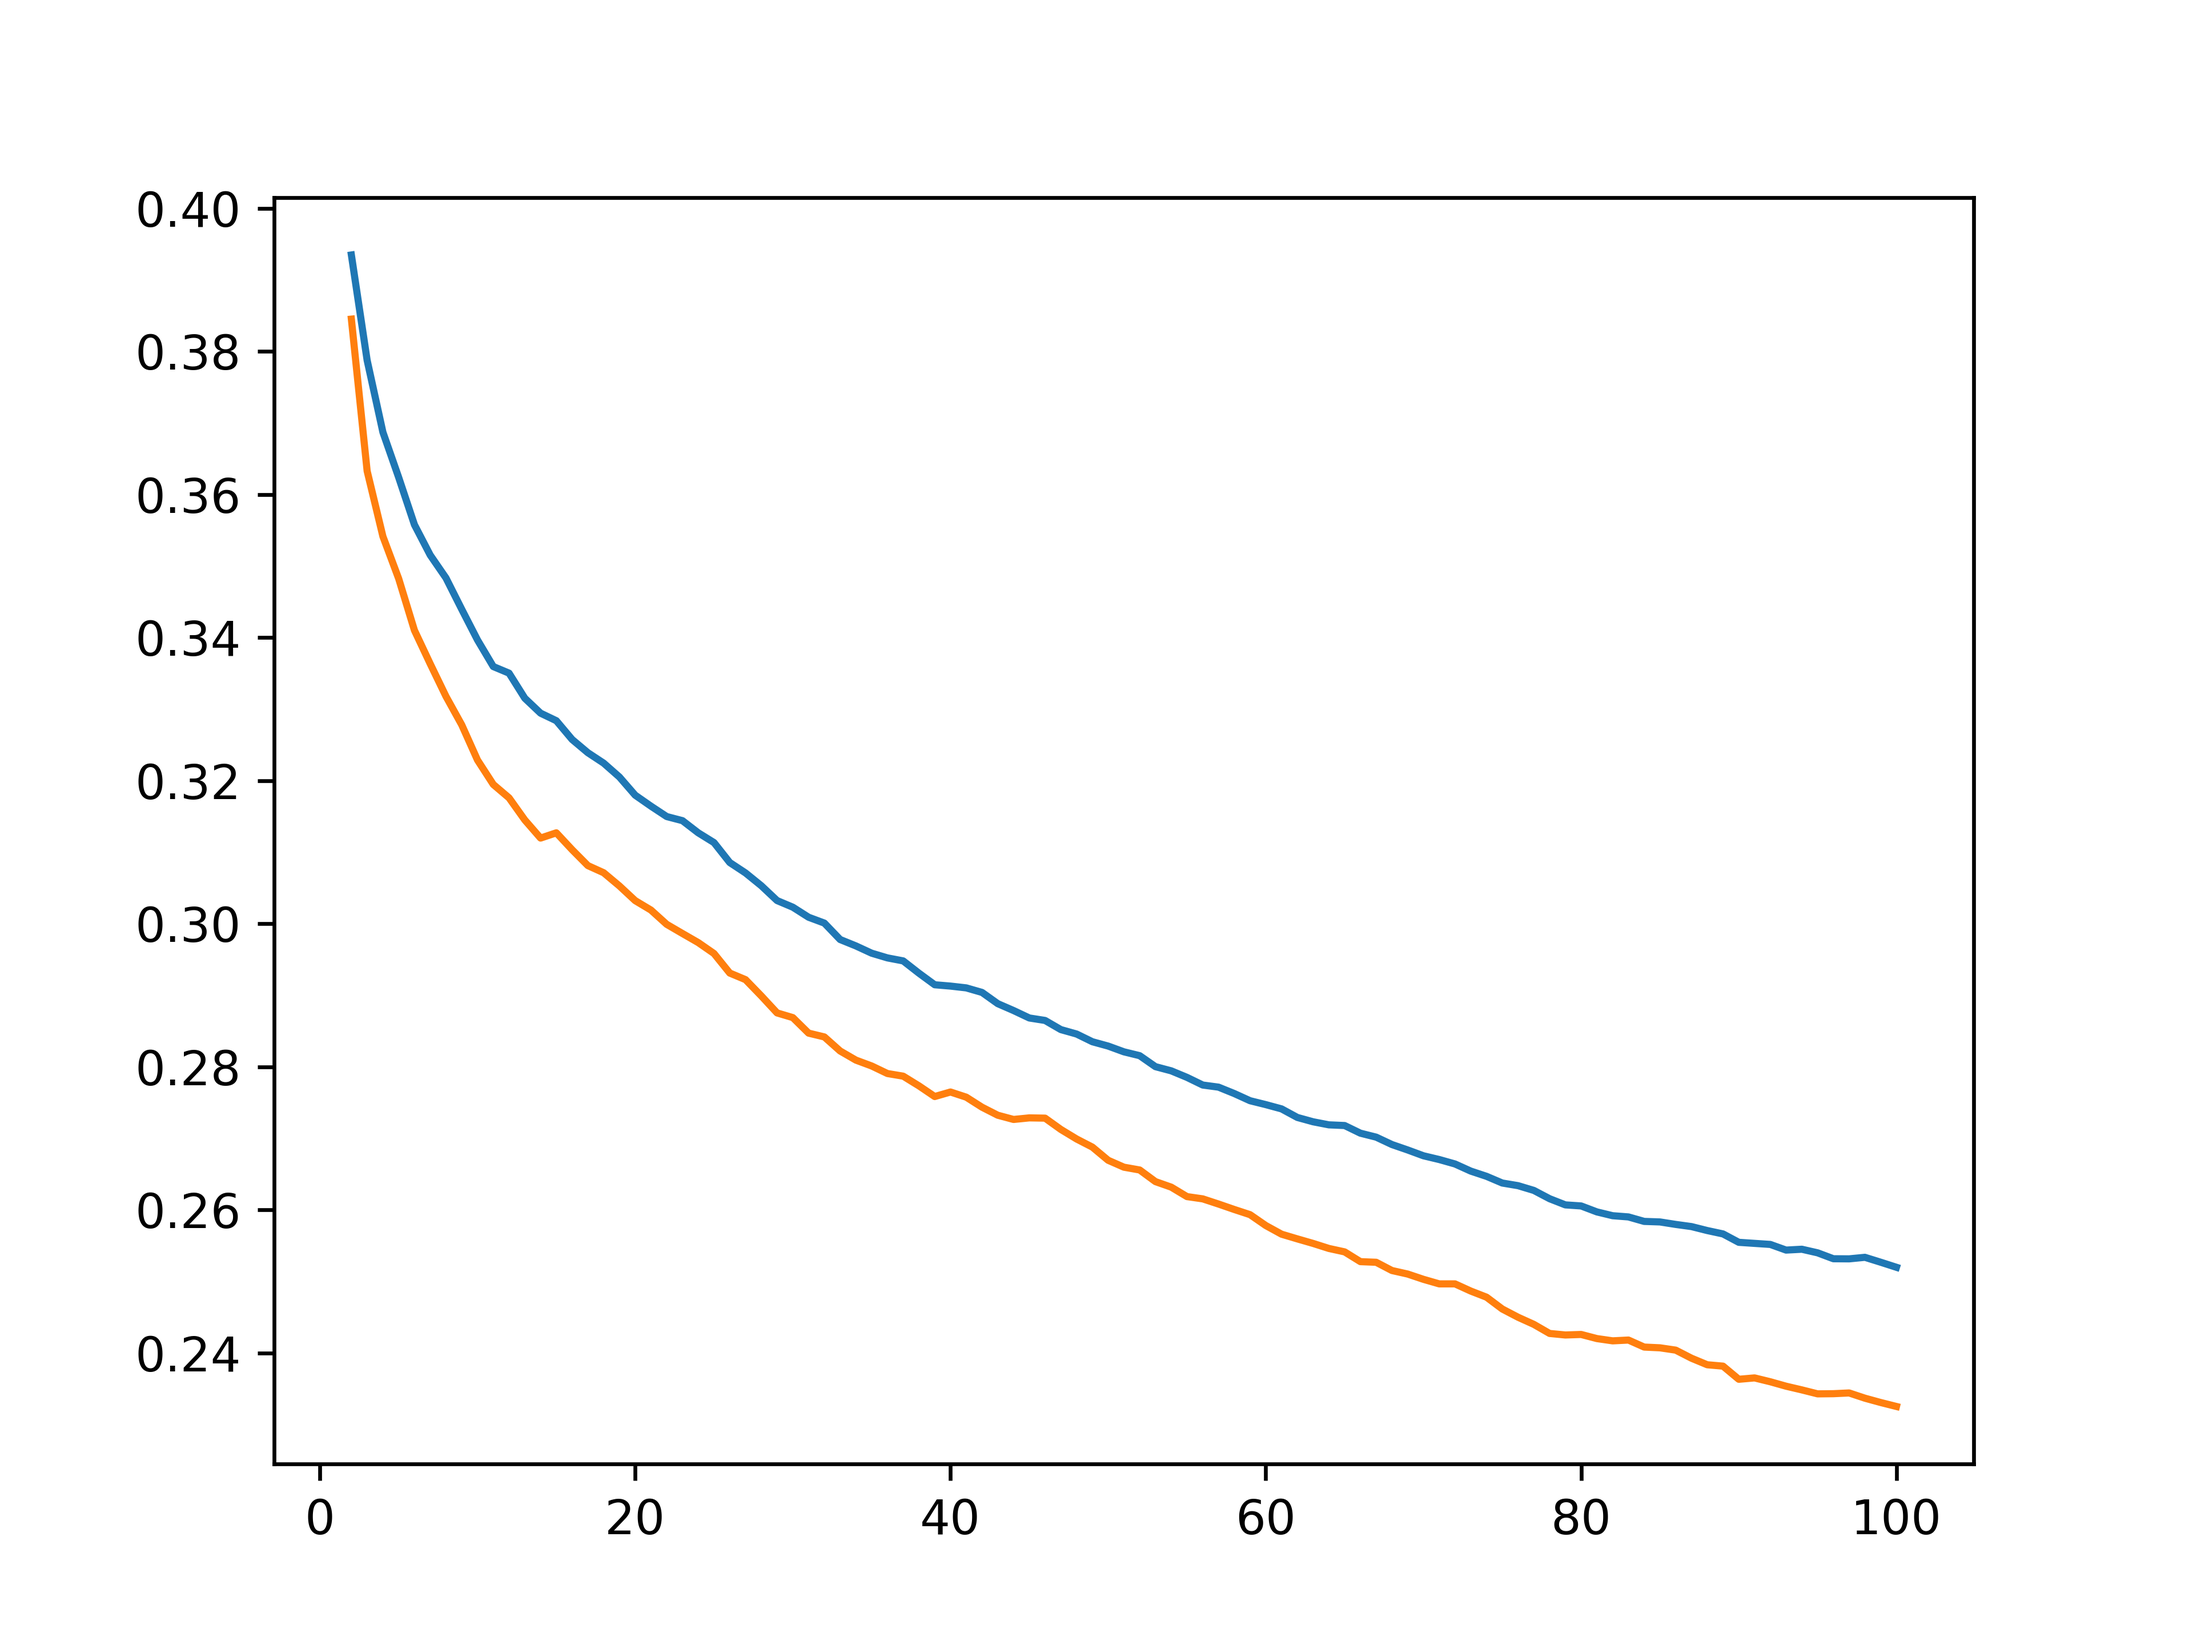
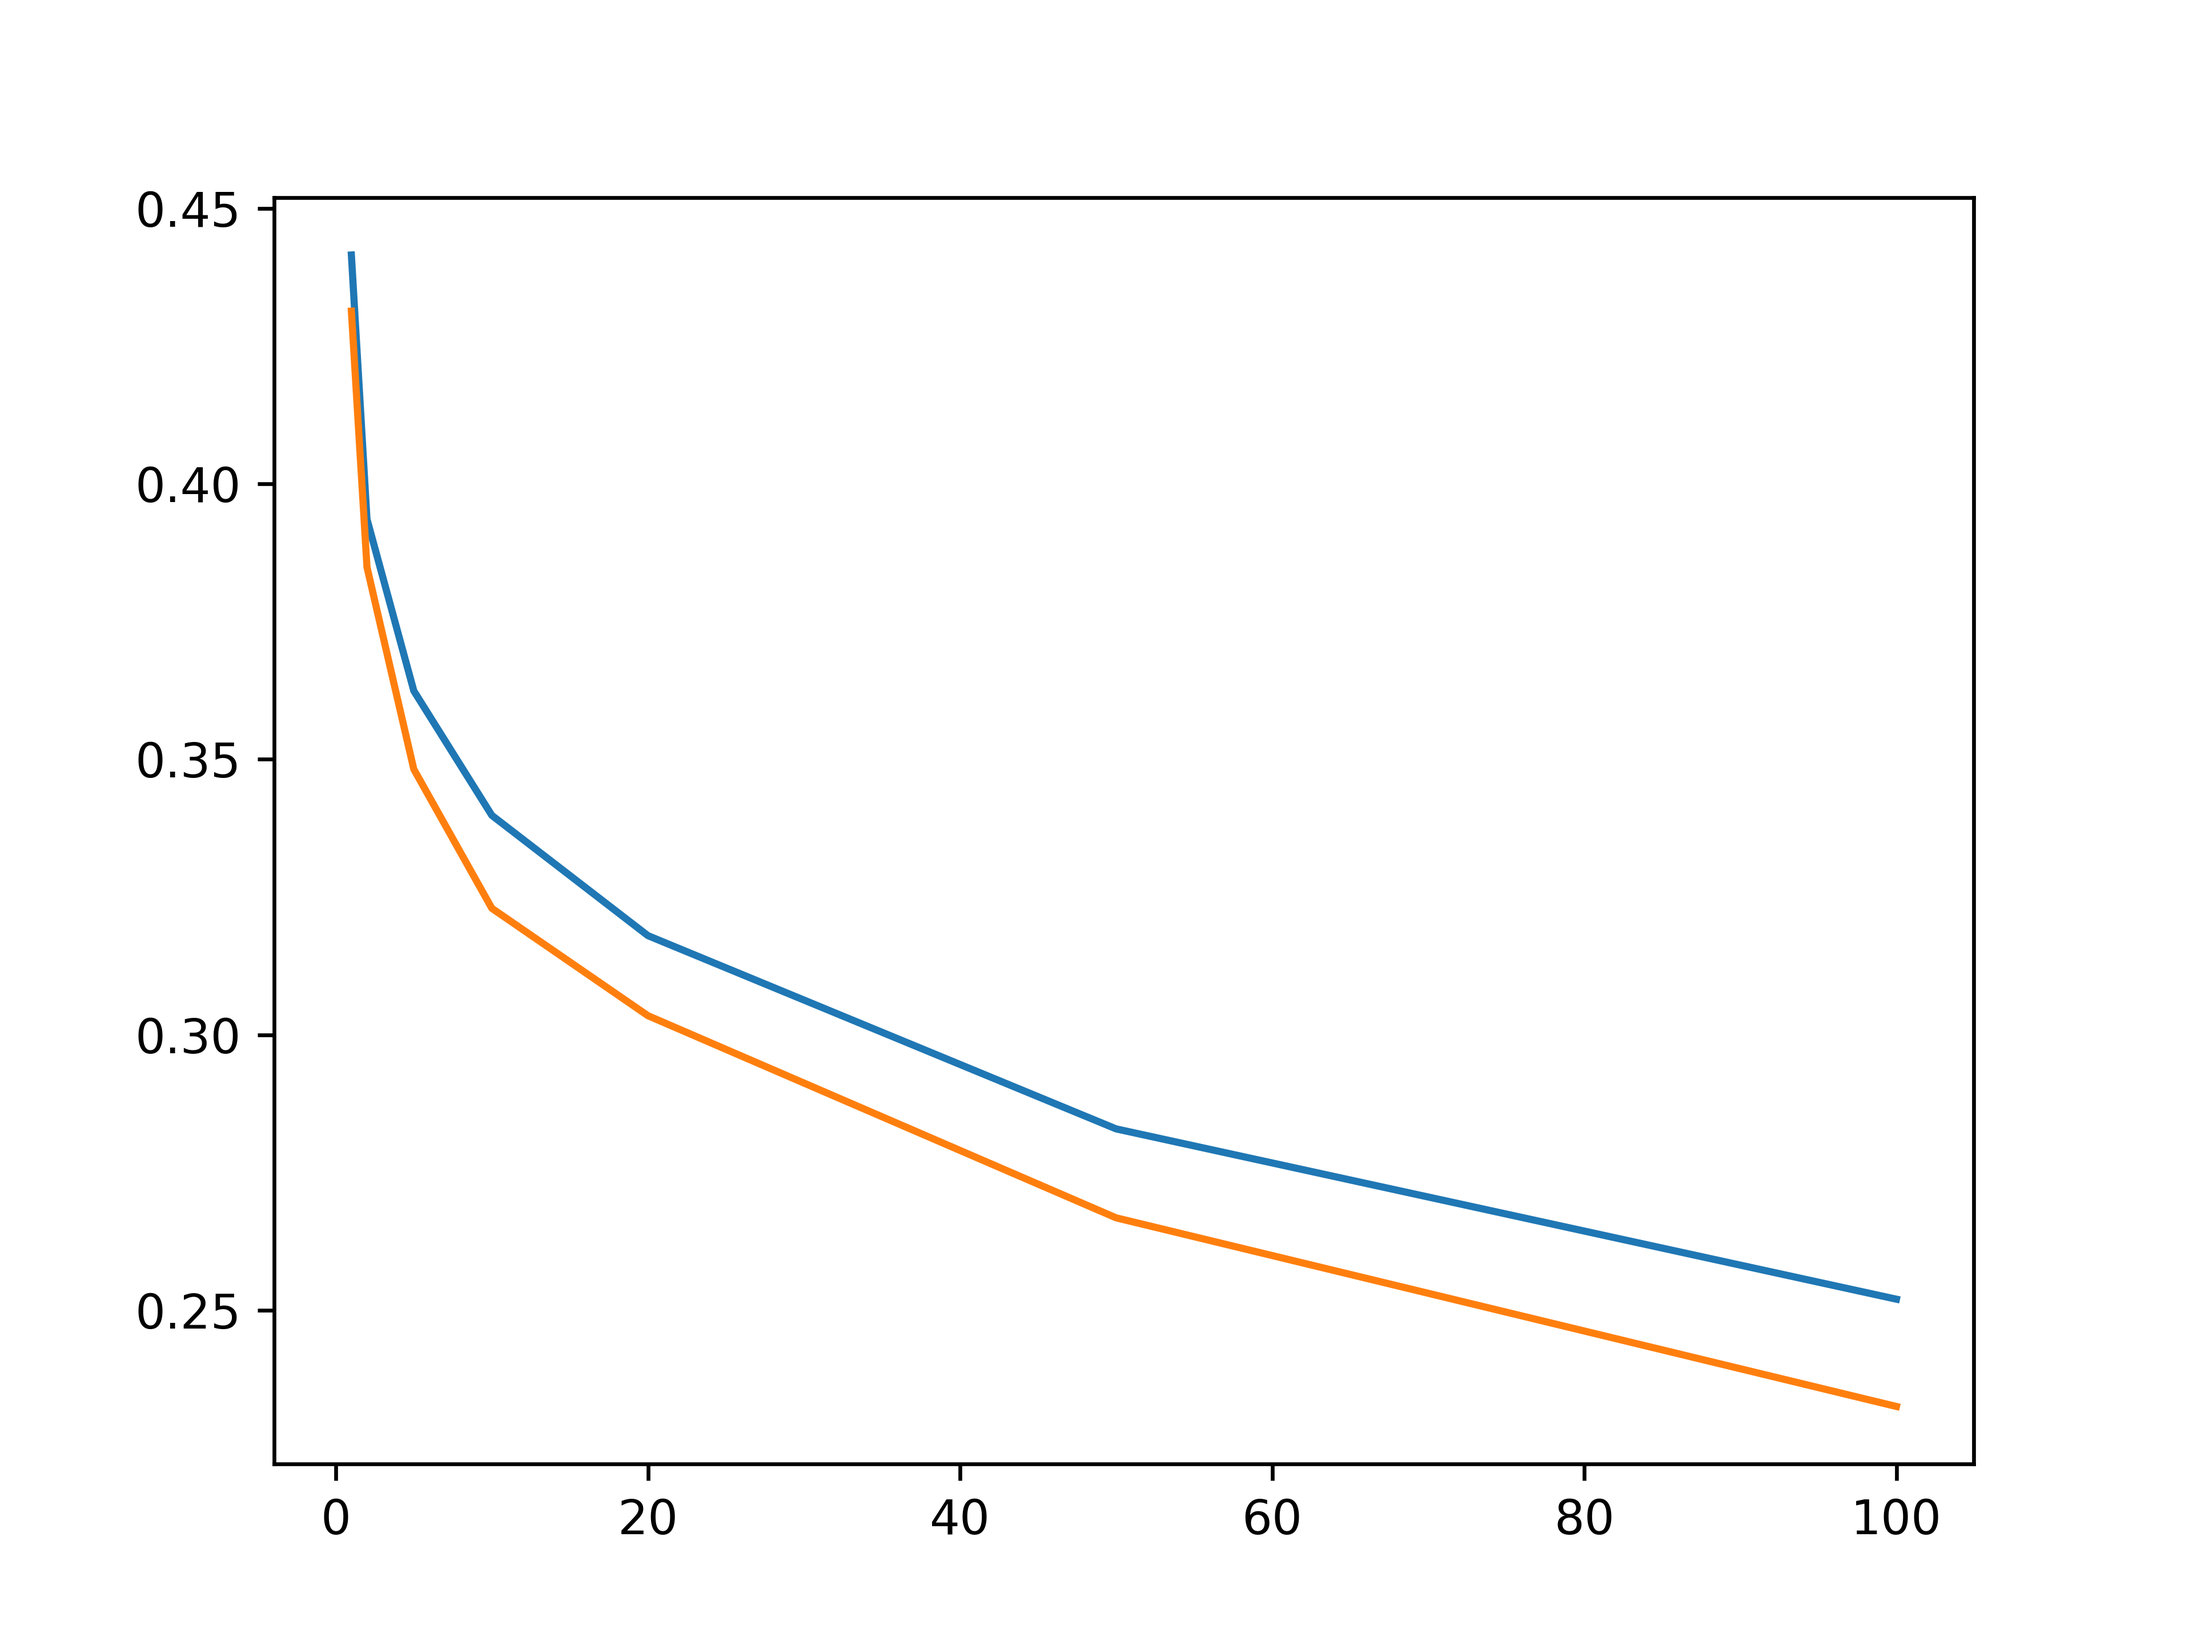
Update the more detailed graph

diff --git a/Final_proj/KNN_regressor.py b/Final_proj/KNN_regressor.py
@@ -136,7 +136,7 @@ def KNN_core(train_data, train_target, test_data, test_target):
     global x_axis_nei_cnt
     global y_axis_acc_cnt
     print("Training_data count ",len(train_data))
-    for neighbor_cnt in range(2,101):#neighbor_cnt_arr: #range(2,MAX_NEIGHBOR_CNT+1):
+    for neighbor_cnt in neighbor_cnt_arr:#range(2,101):#neighbor_cnt_arr: #range(2,MAX_NEIGHBOR_CNT+1):
         regr = sknn.KNeighborsRegressor(n_neighbors = neighbor_cnt)
         regr.fit(train_data, train_target)
         predicted_result = regr.predict(test_data)
